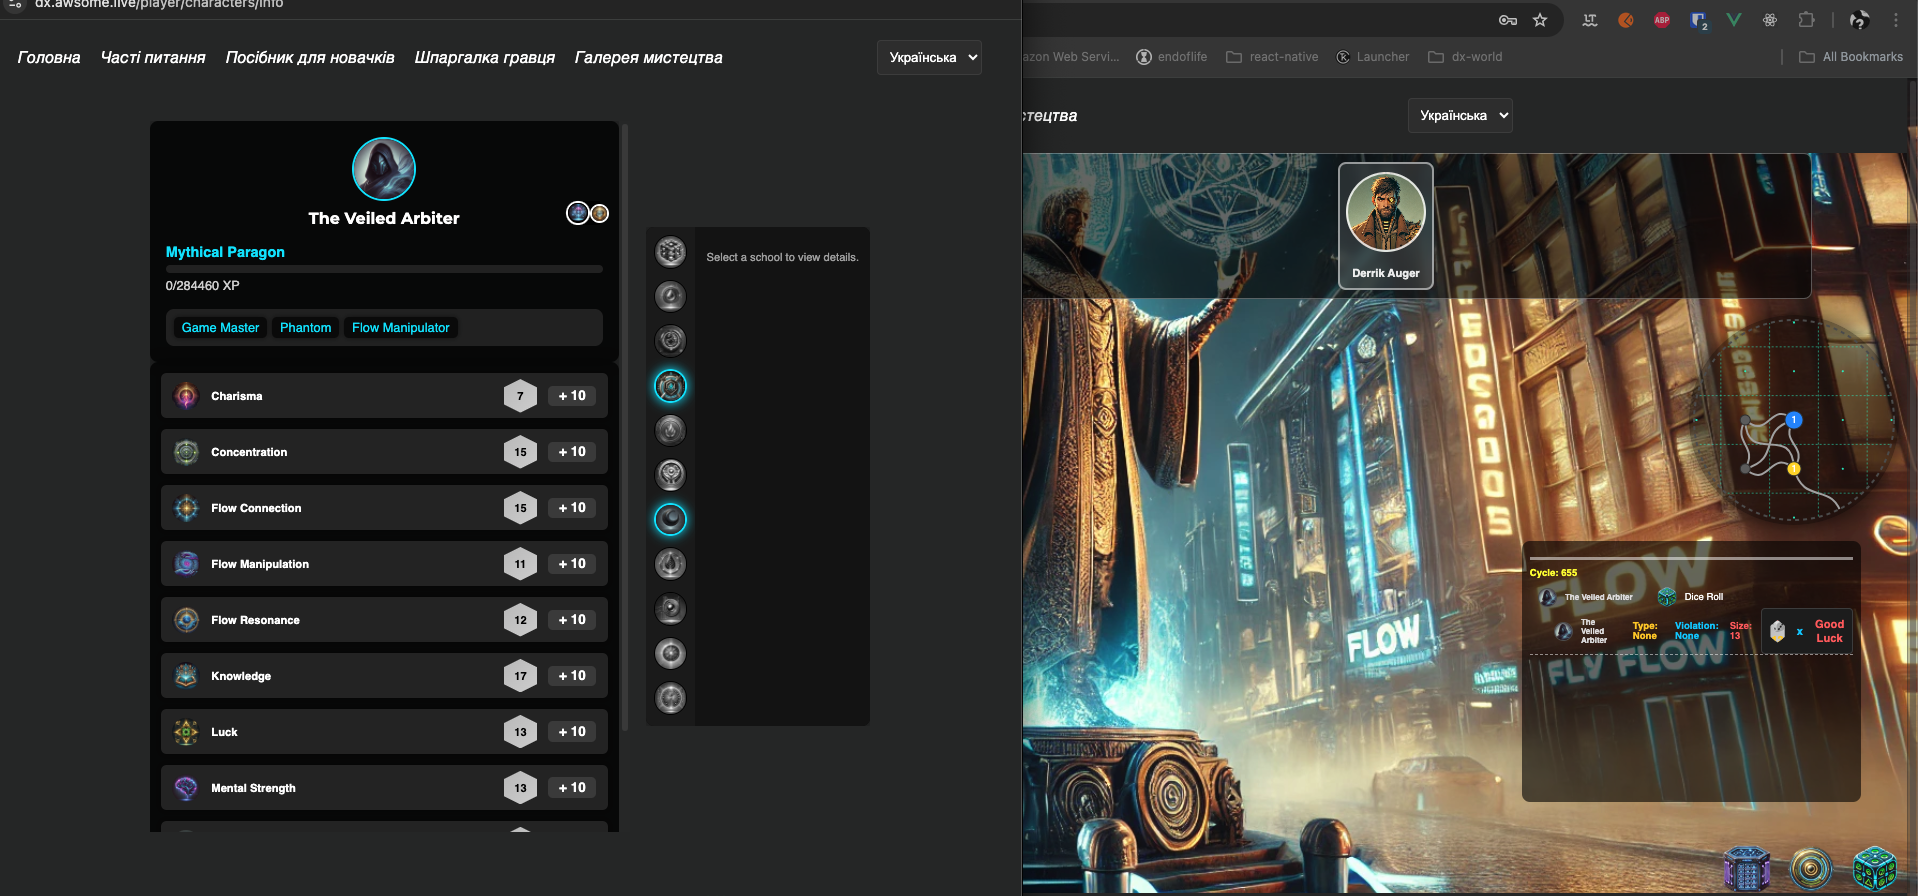
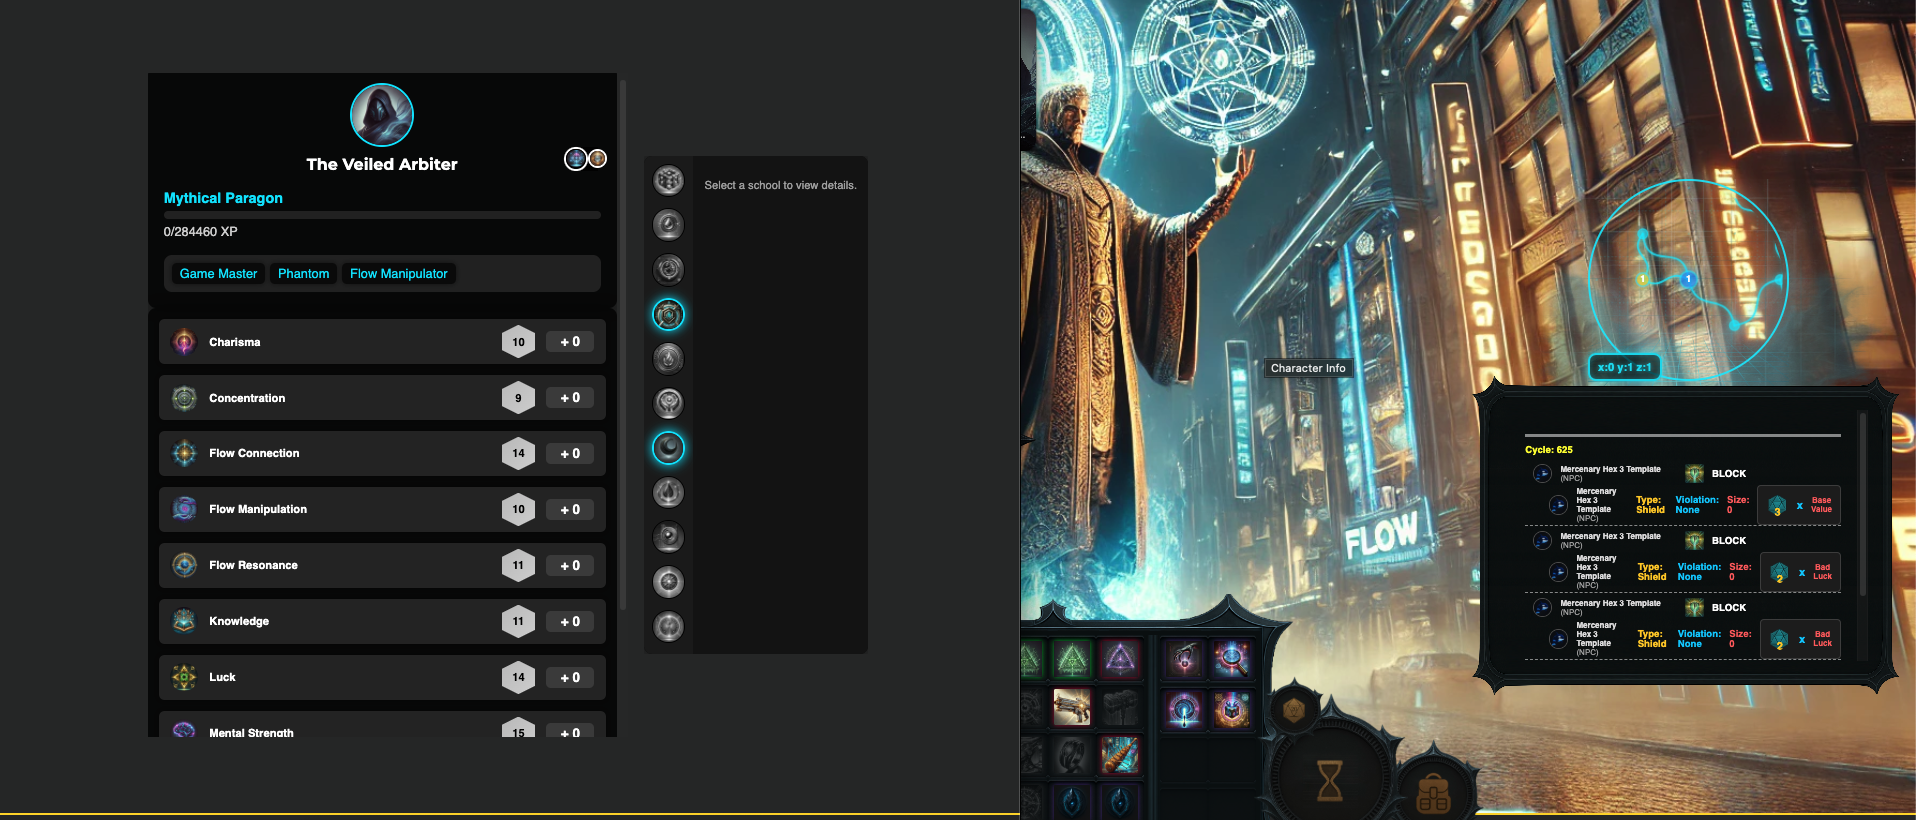
feat(ui): add map effect overlay in Location view
Introduce a glowing flow overlay on the mini-map for enhanced visual effects. Adjust `.center-right` container to use `position: relative` for proper layering. Update associated z-index values for improved stacking order.

diff --git a/dx-frontend/src/views/Game/Location.vue b/dx-frontend/src/views/Game/Location.vue
@@ -80,6 +80,7 @@
       </div>
       <div class="center-right">
         <MapColumn :map-data="mapData" :coordinates="playerInfo?.coordinates" class="mini-map"></MapColumn>
+        <div class="map--effect-overlay"></div>
         <RPGActionLog :actions="actionLog" class="action-log"></RPGActionLog>
       </div>
       <DimensionalGlitch v-for="an in position?.anomalies || []" :key="an" :force-visible="false"
@@ -818,6 +819,7 @@ export default {
 }
 
 .center-right {
+  position: relative;
   flex: 1;
   flex-direction: column;
   align-items: center;
@@ -838,6 +840,19 @@ export default {
   margin-bottom: -2.7rem;
 }
 
+.center-right .map--effect-overlay {
+  position: absolute;
+  top: 0;
+  left: 0;
+  width: 100%;
+  height: 100%;
+  background: url("@/assets/images/RightBar/GlowFlowFG.png") no-repeat center center;
+  background-size: cover;
+  mask-image: linear-gradient(to top, transparent, rgba(0, 0, 0, 1));
+  z-index: 1;
+  mix-blend-mode: screen;
+}
+
 .action-log {
   display: flex;
   flex: 5;
@@ -847,6 +862,7 @@ export default {
   scrollbar-color: rgba(255, 255, 255, 0.5) rgba(0, 0, 0, 0.5);
   scroll-behavior: smooth;
   font-size: 0.6rem;
+  z-index: 10;
 }
 
 

diff --git a/dx-frontend/src/views/WatIsIt.vue b/dx-frontend/src/views/WatIsIt.vue
@@ -108,11 +108,6 @@ export default {
           caption: 'Character Card'
         },
         {
-          src: PlayerActionsImg,
-          alt: 'Player actions interface',
-          caption: 'Player Actions'
-        },
-        {
           src: DiceAreaImg,
           alt: 'Dice rolling interface',
           caption: 'Dice Rolling System'
